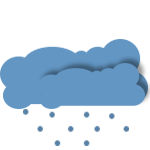
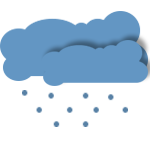
close task for right part

diff --git a/forecast_style.css b/forecast_style.css
@@ -9,8 +9,7 @@ table {
 .pic {
    float: left;
    display: inline-block;
-   padding-right: 10px;
-}
+  }
 
 .main_div {
    border: 1px solid #EEEEEE;
@@ -24,8 +23,9 @@ table {
 
 .left_div {
   border-right: 1px solid #BDBDBD;
-  padding-right: 10px;
+  padding-right: 5px;
   float: left;
+  width: 60%;
 }
 
 .right_div {
@@ -49,14 +49,8 @@ table {
   display: block;
 }
 
-#text_style {
-  color: #9E9E9E;
-  margin: 6px 15px 6px;
-}
-
-.right_table {
-    margin-bottom: 0px;
-    line-height: 0.5;
+.left-title {
+  text-align: center;
 }
 
 .left_table {
@@ -64,11 +58,33 @@ table {
   margin-bottom: 0px;
   line-height: 1.25;
   float: right;
+  width: 110px;
 }
 
-  td {
-  padding-bottom: 5px;
-  }
+.td-lb {
+  border-left-color: #BDBDBD;
+  border-left-style: solid;
+  border-left-width: 1px;
+}
+
+.text-bold-g {
+  color: #616161;
+  font-weight: bold;
+}
+
+.text-bold-gl {
+  color: #9E9E9E;
+  font-weight: bold;
+}
+
+.right_table {
+  margin-bottom: 0px;
+  line-height: 0.5;
+}
+
+td {
+  padding-left: 5px;
+}
 
 .tr_header {
   font-size: 13;

diff --git a/forecast.php b/forecast.php
@@ -15,36 +15,29 @@
 
     <div class="left_div">
       <div class="right_title_div">
-         <p class="p_blue">Ужгород</p>
-          <p class="p_gray"><?php echo date("d.m.Y", strtotime($dateF_arr[3])); ?></p>
+        <p class="p_blue">Ужгород</p>
+        <p class="p_gray"><?php echo date("d.m.Y", strtotime($dateF_arr[3])).", Хмарно"; ?></p>
       </div>
       <div class="pic">
         <img src="<?php getMainSrcUlr($typeOfCloud_arr[3]); ?>">
       </div>
-
       <table class="left_table">
-        <tr >
-          <td colspan="2">День</td>
-          <td colspan="2">Ніч</td>
-        </tr>
-        <tr>
           <td><img src="img/thermometer.png"></td>
-          <td><?php echo $tempMinDay_arr[3] . " - " . $tempMaxDay_arr[3]?></td>
-          <td><img src="img/thermometer.png"></td>
-          <td><?php echo $tempMinNight_arr[3] . " - " . $tempMaxNight_arr[3]?></td>
+          <td class="text-bold-g"><?php echo $tempMinDay_arr[3] . "°  " . $tempMaxDay_arr[3]."°"?></td>
+          <td class="td-lb text-bold-gl"><?php echo $tempMinNight_arr[3] . "°  " . $tempMaxNight_arr[3]."°"?></td>
         </tr>
         <tr>
           <td><img src="<?php getWindSrcUlr($windDir_arr[3]) ?>" width="30px"></td>
-          <td colspan="3"><?php echo $windMin_arr[3] . " - " . $windMax_arr[3]?></td>
+          <td colspan="2"><?php echo $windMin_arr[3] . " - " . $windMax_arr[3]." м/с"?></td>
         </tr>
         <tr>
           <td><img src="img/precipitation.png"></td>
-          <td colspan="3"><?php echo getPrecipitationSrt($precipitation_arr[3]);?></td>
+          <td colspan="2"><?php echo getPrecipitationSrt($precipitation_arr[3]);?></td>
         </tr>
-        <?php if (!isset($otherAtmEffects_arr[3])) {?>
+        <?php if (!empty($otherAtmEffects_arr[3])) {?>
         <tr>
           <td><img src="img/other.png"></td>
-          <td colspan="3"><?php echo $otherAtmEffects_arr[3]?></td>
+          <td colspan="2"><?php echo $otherAtmEffects_arr[3]?></td>
         </tr>
           <?php } ?>
       </table>

diff --git a/table_forecast.php b/table_forecast.php
@@ -2,8 +2,7 @@
   <table class="right_table table">
     <tr class="tr_header">
     <td/>
-      <?php
-       for($i = 2; $i >= 0; $i--): ?>
+      <?php for($i = 2; $i >= 0; $i--): ?>
         <td>
         <?php
           $date  = strtotime($dateF_arr[$i]);
@@ -14,24 +13,26 @@
     </tr>
     <tr>
       <td rowspan="2"><img src="img/thermometer.png" align="ABSMIDDLE" width="20px"></td>
-      <td>Ніч</td>
-      <td>Ніч</td>
-      <td>Ніч</td>
+      <?php for($i = 2; $i >= 0; $i--): ?>
+        <td><?php echo number_format(($tempMaxDay_arr[$i] + $tempMinDay_arr[$i]) / 2, 0)."°"; ?></td>
+      <?php endfor; ?>
     </tr>
     <tr>
-      <td>Ніч</td>
-      <td>Ніч</td>
-      <td>Ніч</td>
+      <?php for($i = 2; $i >= 0; $i--): ?>
+        <td><?php echo number_format(($tempMaxNight_arr[$i] + $tempMinNight_arr[$i]) / 2, 0)."°"; ?></td>
+      <?php endfor; ?>
     </tr>
     <tr>
       <td><img src="img/east_arrow.png" width="20px"></td>
-      <td>Ніч</td>
-      <td>Ніч</td>
-      <td>Ніч</td>
+      <?php for($i = 2; $i >= 0; $i--): ?>
+        <td>
+          <?php echo number_format(($windMax_arr[$i] + $windMin_arr[$i]) / 2, 0); ?>
+        </td>
+      <?php endfor;?>
     </tr>
     <tr>
-      <td><img src="img/other.png" width="20px"></td>
-      <td>Ніч</td>
+      <td></td>
+      <td><img src="img/snow_gray.png"></td>
       <td>Ніч</td>
       <td>Ніч</td>
     </tr>

diff --git a/index.php b/index.php
@@ -14,8 +14,8 @@
           <?php $synopt_arr = array("Синоптик1", "Синоптик2", "Синопти3");?>
 
           <div class="container-fluid div-sl">
-            <p class="p_title_select left">Дата прогнозу <select name="forecast_date"  class="dropdown-toggle  btn btn-primary">
-              <?php for($i = 0; $i < 5; $i++):
+            <p class="p_title_select left">Дата прогнозу <select name="forecast_date"  class="dropdown-toggle btn btn-primary">
+              <?php for($i = 1; $i < 5; $i++):
                 $date  = mktime(0, 0, 0, date("m")  , date("d") + $i, date("Y"));?>
                 <option type="date" class="caret" value="<?php echo date("y-m-d", $date) ?>">
                   <?php

diff --git a/func.php b/func.php
@@ -5,7 +5,7 @@
     case 0: echo "img/sun.png"; break;
     case 1: echo "img/cloud.png"; break;
     case 2: echo "img/cloud.png"; break;
-    case 3: echo "img/sun_cloud.png"; break;
+    case 3: echo "img/snow.png"; break;
     case 4: echo "img/cloud.png"; break;
     case 11: echo "img/snow.png"; break;
     case 21: echo "img/south_arrow.png"; break;
